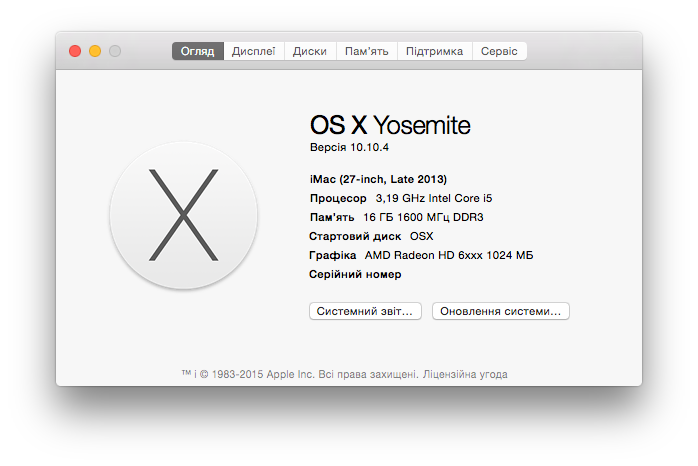
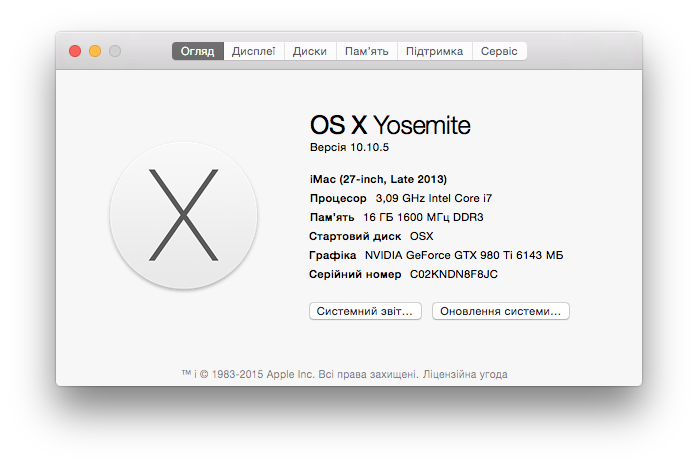
Update spec
Hardware upgarde

diff --git a/README.md b/README.md
@@ -5,10 +5,10 @@ My Hack specs:
 
 ![My hackintosh specs][System Info]
 
-* Clover r3241
-* Intel i5-4570 with HD4600
+* Clover r3330
+* Intel i7-4770S with HD4600
 * Gigabyte GA-H97-D3H (Clover identify mobo as H97-D3H-CF)
-* Gigabyte HD6870 OC 1GB (UEFI GOP F6 bios version)
+* Zotac GTX 980 ti AMP! 6GB
 * 16GB (2 × 8GB) RAM Curcial Balistix Sport
 * SiliconPower S70 120GB - OSX
 * Samsung 840 EVO 120GB - Windows 8.1
@@ -24,11 +24,11 @@ My Hack specs:
 # What working
 
 * UEFI boot, Fast boot (Ultra fast) - in BIOS
-* Sound (5.1, mic, front panel headphones) with [toleda/audio_CloverALC][CloverALC] and [EADP Codec Commander v2.4.0][EADP] (fix audio after sleep)
+* Sound (5.1, mic, front panel headphones) with [toleda/audio_CloverALC][CloverALC] and [EADP Codec Commander][EADP] (fix audio after sleep)
 * Sleep/Wake
 * [Boot Windows 10][Windows Boot] from `System preferences` and CLOVER
 
-# Issues
+# Issues of Gigabyte HD6870
 On 4 May 2015 I recieved an UEFI GOP Ready bios for my GV-R687OC-1GD. But [this][R687OGD.F6] BIOS has some issues, as glitching when GPU is Idle (the trouble is very low core and memory clocks). And for resolve this glitching I use [RBE][RBE] for adjust Core and Memory clocks to higer values. And the result of my work is [fixed UEFI GOP][MOD_R687OGD.F6] ready BIOS for GV-R687OC-1GD with clocks of GV-R687SO-1GD.
 
 [EADP]: https://applelife.ru/threads/eapd-codec-commander.41696/
